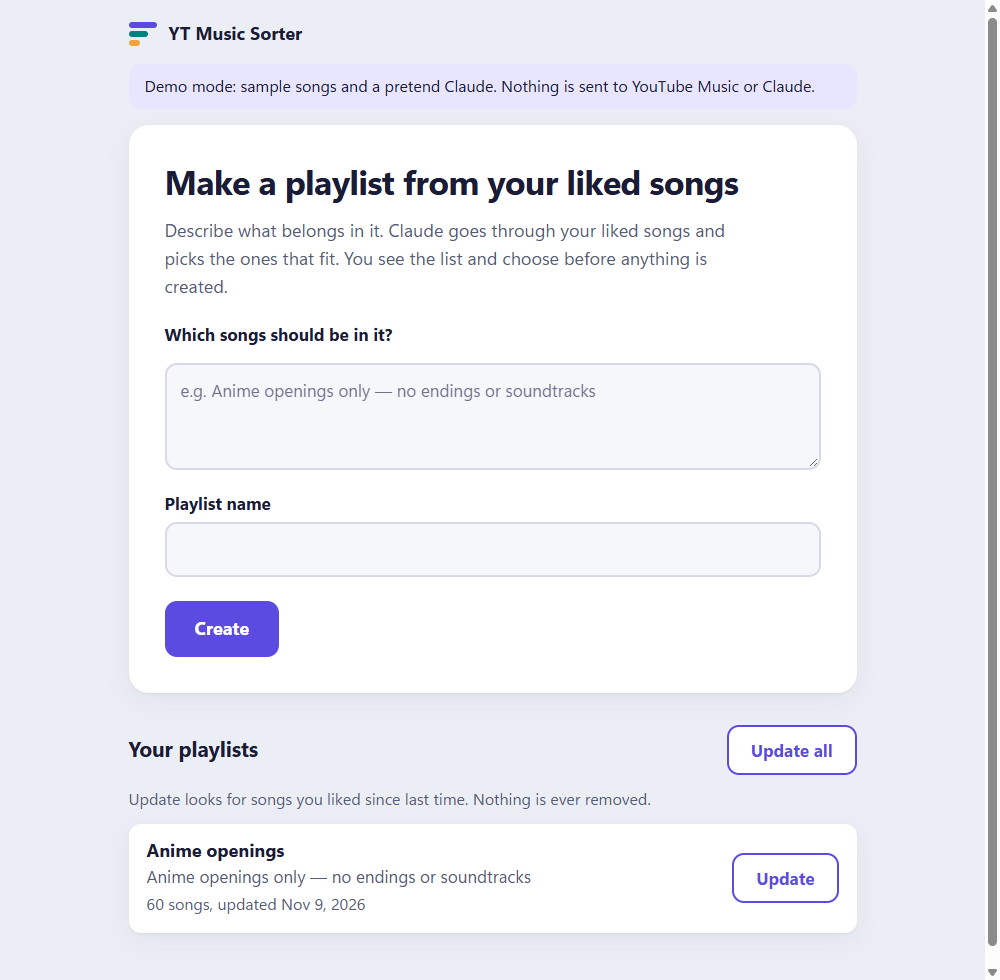
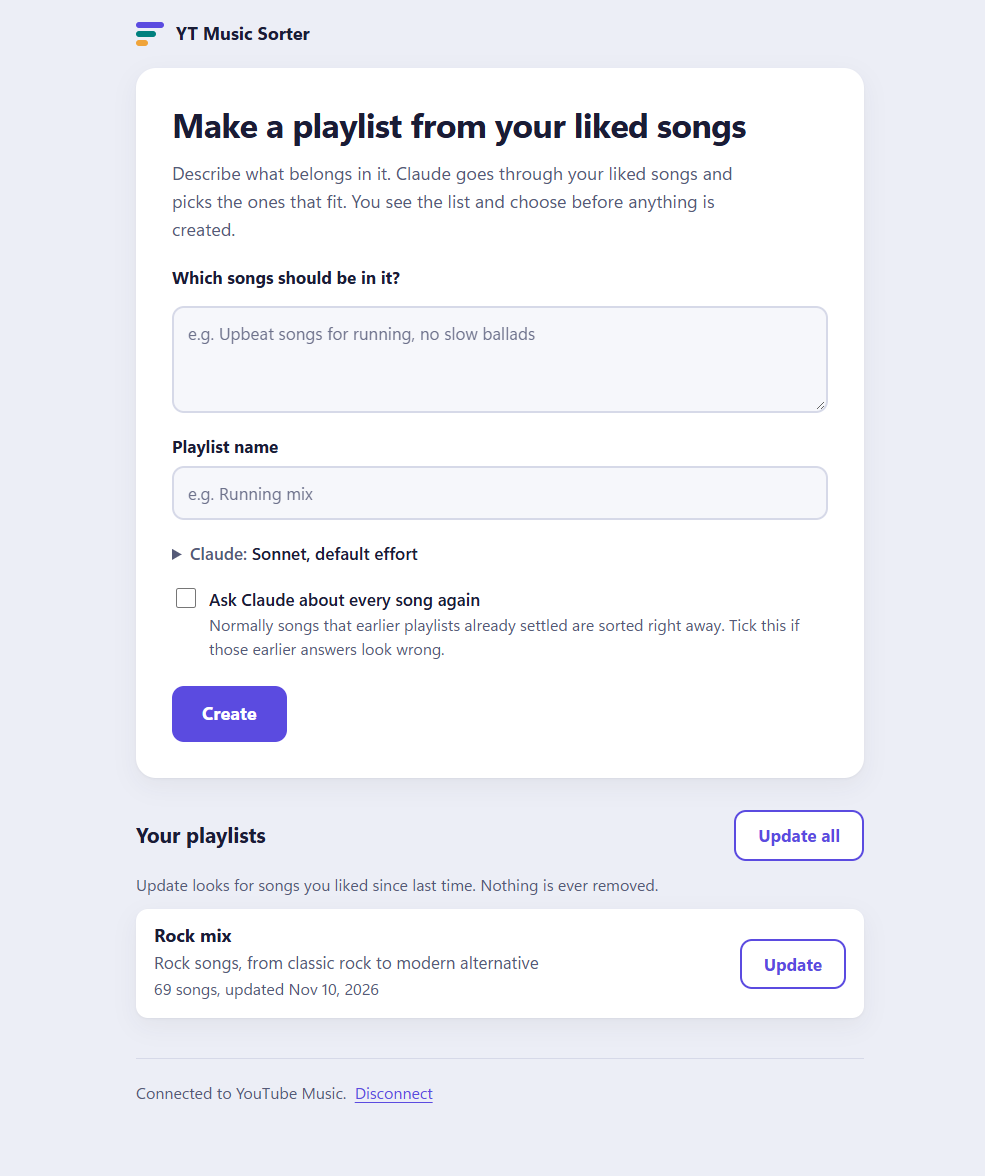
docs: neutral examples and a short README
- Placeholders and Claude's tag examples no longer lean on one person's
  taste (anime, K-pop, Ukrainian); the tie-in hint now covers films, TV,
  anime and games
- README rewritten as description, requirements and a short usage guide,
  with the Copy as cURL step and current features
- Fresh screenshots from demo mode showing the current main screen

diff --git a/ytsorter/static/index.html b/ytsorter/static/index.html
@@ -125,9 +125,9 @@
         <p class="lead">Describe what belongs in it. Claude goes through your liked songs and picks the ones that fit.
           You see the list and choose before anything is created.</p>
         <label for="desc">Which songs should be in it?</label>
-        <textarea id="desc" rows="3" maxlength="5000" placeholder="e.g. Anime openings only — no endings or soundtracks"></textarea>
+        <textarea id="desc" rows="3" maxlength="5000" placeholder="e.g. Upbeat songs for running, no slow ballads"></textarea>
         <label for="name">Playlist name</label>
-        <input id="name" type="text" maxlength="150" autocomplete="off">
+        <input id="name" type="text" maxlength="150" autocomplete="off" placeholder="e.g. Running mix">
 
         <details class="claude-choice" id="claude-choice" hidden>
           <summary>Claude: <span id="claude-choice-summary"></span></summary>

diff --git a/ytsorter/claude_cli.py b/ytsorter/claude_cli.py
@@ -30,7 +30,7 @@ _VERDICTS = ("include", "exclude", "unsure")
 SYSTEM_PROMPT = (
     "You sort a user's liked songs into a playlist they described. "
     "Judge only from the metadata given for each song and your own knowledge of the music. "
-    "Many Japanese, Korean and Chinese songs are anime, drama or game theme songs: use what you know "
+    "Many songs are theme songs or soundtracks for films, TV series, anime or games: use what you know "
     "about tie-ins, including romanized or translated titles. "
     "If you cannot tell whether a song fits, answer 'unsure' rather than guess. "
     "Keep each reason to 15 words or fewer. "
@@ -47,7 +47,7 @@ SCHEMA_JSON = (
 TOPIC_SYSTEM_PROMPT = (
     "You turn a playlist description into a single song tag, or none. "
     "A tag names what a song is, like a language, a genre, a country, or a kind of song "
-    "such as 'anime opening'. Answer with only the JSON object asked for."
+    "such as 'movie soundtrack'. Answer with only the JSON object asked for."
 )
 TOPIC_SCHEMA_JSON = '{"type":"object","properties":{"topic":{"type":["string","null"]}},"required":["topic"]}'
 
@@ -105,7 +105,7 @@ def _build_prompt(description: str, songs: list[Song], known_tags: list[str] = (
         "For each numbered song below, decide whether it belongs in that playlist "
         "(include, exclude or unsure) and give a short reason. "
         "Also give 1 to 6 short lowercase tags describing the song itself, whatever the playlist: "
-        "its language, genre, origin and kind (for example 'japanese', 'j-rock', 'anime opening', 'naruto'). "
+        "its language, genre, origin and kind (for example 'spanish', 'indie rock', 'movie soundtrack', 'christmas song'). "
         "Leave tags empty for a song you don't know.\n"
         f"{_known_tags_line(list(known_tags))}"
         f"Answer with only a JSON object of this exact shape: {_JSON_SHAPE}\n"
@@ -263,7 +263,7 @@ class ClaudeClassifier:
             f"Playlist description: {description}\n"
             f"{_known_tags_line(list(known_tags))}"
             "If the songs that fit this description are exactly the songs with one tag (for example "
-            "'k-pop', 'ukrainian', 'anime opening'), answer that tag, reusing a tag already in use when it "
+            "'jazz', 'spanish', 'christmas song'), answer that tag, reusing a tag already in use when it "
             "means the same. If the description combines conditions, leaves things out, or depends on mood, "
             "era, tempo or taste, answer null.\n"
             'Answer with only a JSON object of this exact shape: {"topic": "<tag>" or null}'

diff --git a/README.md b/README.md
@@ -1,197 +1,92 @@
 # YT Music Sorter
 
-Turn your YouTube Music liked songs into playlists, just by describing them.
+Turn your YouTube Music liked songs into playlists by describing them.
 
-Type something like *"Anime openings only, no endings or soundtracks"* or *"Songs sung in Ukrainian"*. Claude goes through your liked songs and picks the ones that fit. You get a list with a checkbox next to every song, tick or untick what you like, and only then is the playlist created on your YouTube Music account. Later, one button adds the songs you liked since then.
-
-The app runs on your own computer and opens in your web browser. Nothing is sent anywhere except to YouTube Music (your account) and to Claude (each song's title, artists, album and length, to decide which songs fit).
+Write what you want, for example *"Upbeat songs for running, no slow ballads"* or *"Instrumental music for studying"*. Claude goes through your liked songs and picks the ones that fit. You review the list, tick or untick songs, and only then is a private playlist created on your account. Later, **Update** adds the songs you liked since.
 
 ![The review screen: songs Claude picked, each with a checkbox](docs/images/review-screen.png)
 
-*The screenshots in this guide come from the built-in demo, which uses sample songs.*
+## Requirements
 
-## What you need
+- **Claude Code**, installed and logged in with your Claude account ([install guide](https://docs.claude.com/en/docs/claude-code/setup)). Check it by running `claude` in a terminal.
+- **A YouTube Music account** with liked songs.
+- **Windows, macOS or Linux** with an internet connection. Nothing else: the start script installs everything the app needs.
 
-- **Claude Code**, installed and logged in. You log in with your own Claude account, so there is no key to copy. The app will walk you through this if it is not set up yet.
-- **A YouTube Music account** with some liked songs.
-- A computer with an internet connection (Windows, macOS or Linux).
+## Usage
 
-You do not need to install Python or anything else yourself. The start script does it.
+### 1. Download and start
 
-## Download
+1. Download the app: click **Code → Download ZIP** on this page and unzip it, or run:
+   ```
+   git clone https://github.com/TymchukRoman/ytm-playlist-creator.git
+   ```
+2. Start it:
+   - **Windows:** double-click `start.bat`.
+   - **macOS / Linux:** run `./start.sh` in a terminal in the app folder.
 
-1. On the [project page](https://github.com/TymchukRoman/ytm-playlist-creator), click the green **Code** button, then **Download ZIP**.
-2. Unzip it (on Windows: right-click the file, then **Extract All**).
+The app opens in your browser. Keep the window that opened alongside it running while you use the app, and close it to stop the app. The first start takes a minute or two.
 
-If you use git, you can clone it instead:
+### 2. Connect YouTube Music (once)
 
-```
-git clone https://github.com/TymchukRoman/ytm-playlist-creator.git
-```
+The setup screen walks you through this:
 
-## Start
+1. Open [music.youtube.com](https://music.youtube.com) and sign in.
+2. Press `F12` (on a Mac, `Cmd`+`Option`+`I`) and open the **Network** tab.
+3. Type `browse` in the filter box. If nothing shows up, click **Home** on the YouTube Music page.
+4. Right-click the first request:
+   - **Chrome / Edge:** choose **Copy → Copy as cURL (bash)**.
+   - **Firefox:** click the request, switch on **Raw** next to **Request Headers**, and copy that text.
+5. Paste it into the app and press **Connect**.
 
-- **Windows:** double-click **`start.bat`** in the unzipped folder.
-- **macOS / Linux:** open a terminal in the folder and run `./start.sh`.
+What you copy acts like a password for your YouTube account. The app keeps it only on your computer.
 
-A window with some text opens, and after a moment the app appears in your web browser. **Keep that window open while you use the app. Close it to stop the app.**
+### 3. Make a playlist
 
-The first start takes a minute or two: it downloads a small helper called [uv](https://docs.astral.sh/uv/), which then sets up everything else. After that, starting is quick.
+1. Describe which songs belong in it and give it a name.
+2. Press **Create** and wait while Claude checks your songs. A progress bar shows how far along it is.
+3. Review the result:
+   - **Included** songs are ticked.
+   - **Unsure** and **Not included** songs are unticked.
+   - Change anything you like.
+4. Press **Create playlist**. Nothing changes on YouTube Music before this.
 
-## First-time setup
+![The main screen with a playlist and its Update button](docs/images/main-screen.png)
 
-The first time you open the app, it shows a short setup screen with two checks. Each one turns green when it is done. This is the same guide you see in the app, with the same steps.
+### 4. Keep it up to date
 
-### 1. Claude
+Press **Update** on a playlist, or **Update all**, to check songs you liked since last time. You review those the same way.
 
-1. Install Claude Code from the [official install page](https://docs.claude.com/en/docs/claude-code/setup).
-2. Open a terminal. On Windows, press Start, type **Terminal** and open it. On a Mac, open **Terminal** from Applications, then Utilities.
-3. Type `claude`, press Enter, and follow the steps to log in. You can close the terminal afterwards.
-4. Go back to the app and press **Check again**.
+## Good to know
 
-### 2. YouTube Music
+- **Nothing is removed.** The app only creates playlists and adds songs. It never removes songs, changes your likes, or touches playlists it didn't create.
+- **Claude only sees song info:** title, artists, album and length. For songs it doesn't know, it answers "Unsure".
+- **Model and effort:** under the playlist name, open **Claude: …** to choose the model and effort. A bigger model or more effort is more careful, but slower and uses more of your Claude limit.
+- **It learns as you go.** Each scan tags your songs. A later playlist on the same simple topic (for example *"Jazz only"*) reuses what earlier scans settled and asks Claude only about the rest. Tick **Ask Claude about every song again** to skip that.
+- **Pauses are safe.** If your Claude limit runs out or the YouTube sign-in expires, the run pauses and keeps its progress. Press **Resume** later.
+- **Your data:** the sign-in and the app's records are stored in your user data folder, not in the app folder, so updating the app keeps them:
+  - Windows: `%LOCALAPPDATA%\yt-music-sorter`
+  - macOS: `~/Library/Application Support/yt-music-sorter`
+  - Linux: `~/.local/share/yt-music-sorter`
 
-The app connects to your YouTube Music account by using a few details your browser sends when you use the site. You copy them once and paste them into the app. It takes about two minutes. The app shows these steps with a tab for your browser.
-
-**Chrome or Edge**
-
-1. Open [music.youtube.com](https://music.youtube.com) and make sure you are signed in.
-2. Press `F12` to open the developer tools. On a Mac, press `Cmd`+`Option`+`I`.
-3. Click the **Network** tab at the top of the developer tools.
-4. Type `browse` into the filter box. If the list stays empty, click **Home** or **Library** on the YouTube Music page.
-5. Right-click the first request in the list, then choose **Copy**, then **Copy as cURL (bash)**.
-6. Paste them into the box in the app (`Ctrl`+`V`, or `Cmd`+`V` on a Mac) and press **Connect**.
-
-**Firefox**
-
-1. Open [music.youtube.com](https://music.youtube.com) and make sure you are signed in.
-2. Press `F12` to open the developer tools. On a Mac, press `Cmd`+`Option`+`I`.
-3. Click the **Network** tab at the top of the developer tools.
-4. Type `browse` into the **Filter URLs** box. If the list stays empty, click **Home** or **Library** on the YouTube Music page.
-5. Click the first request in the list. On the right, find **Request Headers** and switch on the **Raw** toggle next to it.
-6. Select all of the text under Request Headers, copy it, paste it into the box in the app and press **Connect**.
-
-These details let the app act as you on YouTube Music, so treat them like a password. They are saved only on your computer (see [Your data](#your-data)) and are never sent anywhere except to YouTube Music.
-
-## Make your first playlist
-
-1. On the main screen, describe what belongs in the playlist, for example *"Anime openings only, no endings or soundtracks"*. Be as specific as you like.
-2. Give the playlist a name.
-3. Press **Create**. A progress bar shows the steps: fetching your liked songs, then asking Claude which songs fit. A big library can take a few minutes.
-4. On the **review screen**, look through the songs.
-   - **Included**: songs Claude thinks fit. They start ticked.
-   - **Unsure**: songs Claude could not judge from the title, artists, album and length. They start unticked, so tick the ones you want.
-   - **Not included**: songs Claude thinks do not fit. This section starts collapsed. Tick any you want anyway.
-5. Press the button at the bottom (for example **Create playlist with 60 songs**). Only now does anything happen on YouTube Music. If you change your mind, press **Cancel** and nothing is created.
-
-![The main screen with a finished playlist and its Update button](docs/images/main-screen.png)
-
-### Each playlist makes the next one faster
-
-Every scan also notes a few tags for each song, such as its language, genre and what it is (`k-pop`, `japanese`, `anime opening`). The app remembers which songs fit, or surely don't fit, each simple topic it has scanned for.
-
-When a new playlist's description is one simple topic, like *"K-pop songs only"* or *"Songs sung in Ukrainian"*, songs that earlier scans already settled for that topic are sorted right away. Claude is only asked about the rest. Those songs still appear on the review screen, with the reason *"An earlier scan tagged it …"* or *"An earlier scan found it isn't …"*, so you can still change them. Ticking one of them corrects what the app remembers.
-
-Descriptions that combine things or depend on taste, like *"Ukrainian rock from the 2000s"* or *"Chill songs for rainy evenings"*, always ask Claude about every song.
-
-If earlier answers look wrong, tick **Ask Claude about every song again** before pressing **Create**.
-
-### Choosing the Claude model and effort
-
-Under the playlist name, open **Claude: Sonnet, default effort** to pick the model and effort. Your choice is saved and used for every playlist from then on, including Update.
-
-- **Model:** Haiku is the fastest and uses the least of your Claude limit. Sonnet (the default) is a good balance. Opus and Fable judge subtle playlists more carefully but use more of your limit.
-- **Effort:** how long Claude thinks about each batch. **Default** lets Claude Code decide. Higher effort is slower and uses more of your limit.
-
-For a big library, start with Sonnet. Switch to Opus or raise the effort only if Claude puts too many songs in "Unsure" or gets them wrong.
-
-### Adding songs you liked later
-
-Each playlist the app made appears under **Your playlists** with an **Update** button. Update looks only at the songs you liked since the last time, asks Claude about those, and shows you the same review screen. **Update all** does this for every playlist, one after another. Songs you already decided on are never asked about again, and your choices on the review screen are final.
-
-## Safety
-
-- **Nothing is ever removed.** The app never takes songs out of a playlist and never changes your likes.
-- **Other playlists are untouched.** The app only changes playlists it created itself. It never edits or reads your other playlists.
-- **New playlists are private.** You can make one public yourself in YouTube Music later.
-- **You approve everything.** Nothing is written to YouTube Music until you press the button on the review screen.
-- **Claude only sees song info.** It judges from the title, artists, album and length (plus what it already knows). It does not browse the web or look up lyrics, so for obscure songs it may answer "unsure".
-- The app only listens on your own computer (`127.0.0.1`); other devices cannot reach it.
-
-## Your data
-
-Your YouTube Music sign-in and the list of playlists the app made are stored **outside** the app folder, in your user data folder:
-
-| System | Folder |
-| --- | --- |
-| Windows | `%LOCALAPPDATA%\yt-music-sorter` (paste this into the File Explorer address bar) |
-| macOS | `~/Library/Application Support/yt-music-sorter` |
-| Linux | `~/.local/share/yt-music-sorter` |
-
-Inside:
-
-- `youtube_auth.json` is your YouTube Music sign-in.
-- `playlists/` holds the app's records of the playlists it made (this is how Update knows what it has already checked).
-- `job.json` is the state of the current or last run, so it can continue after a pause.
-- `songs.json` is what earlier scans learned about each song (tags, and which topics it surely isn't).
-- `settings.json` holds your Claude model and effort choice.
-
-**To disconnect your YouTube Music account**, press **Disconnect** at the bottom of the main screen (or close the app and delete `youtube_auth.json`). The app shows the setup screen again. To sign out everywhere, you can also sign out of YouTube in your browser. To wipe everything the app remembers, delete the whole `yt-music-sorter` folder. Playlists already created on YouTube Music stay there.
-
-## Updating the app
-
-Download the ZIP again (or run `git pull`) and unzip it anywhere, even over the old folder. **Your data is kept**, because it lives in the data folder above and not in the app folder.
+  **Disconnect** at the bottom of the main screen removes your sign-in.
 
 ## Troubleshooting
 
-**Windows says "Windows protected your PC" when I double-click `start.bat`.**
-This is Windows SmartScreen, which warns about any downloaded script. Click **More info**, then **Run anyway**. You can open `start.bat` in Notepad first to see what it does: it installs uv if needed and starts the app.
+- **"Claude isn't logged in":** run `claude` in a terminal and log in, then press **Check again**.
+- **"Your Claude Code is too old":** run `claude update`.
+- **Windows warns about `start.bat`:** click **More info → Run anyway**.
+- **The browser didn't open:** copy the address printed in the app's window (like `http://127.0.0.1:8765/`) into your browser.
 
-**The window closed, or shows an error.**
-On Windows, the window stays open when something goes wrong, so you can read it. Check your internet connection and try again. If it keeps happening, take a screenshot of the window and ask for help in this project's [Issues on GitHub](https://github.com/TymchukRoman/ytm-playlist-creator/issues).
-
-**"YouTube Music sign-in expired".**
-The details you pasted do not last forever (they also stop working after you sign out of YouTube). Press **Reconnect YouTube Music** and repeat the YouTube Music steps above. The work done so far is kept, and you can press **Resume** afterwards.
-
-**"Claude took too long to answer" or "Claude's answer couldn't be read".**
-A one-off hiccup. The run pauses and keeps the finished work. Press **Resume** to try again.
-
-**"Your Claude Code is too old for this app".**
-Open a terminal and run `claude update`, then press **Check again**.
-
-**"Claude usage limit reached".**
-Your Claude subscription has a limit on how much you can use in a period. The run pauses and **keeps the finished work**. Come back later and press **Resume**. It continues where it stopped, even after closing the app.
-
-**"Claude isn't logged in" or "Claude CLI not found".**
-Follow the Claude steps in [First-time setup](#1-claude): install Claude Code, then open a terminal, run `claude`, and log in. Then press **Check again** (or **Resume**).
-
-**The app does not open in my browser.**
-Look at the window the start script opened. It prints a line like `YT Music Sorter is running at http://127.0.0.1:8765/`. Copy that address into your browser.
-
-**Port in use.**
-The app uses port 8765, and picks another free one automatically if that one is taken. The address it prints always shows the right one, so use the address from its window. If the app is already running, starting it again only opens the running one in your browser (and the new window closes again).
-
-**The page says "Can't reach the app".**
-The window that runs the app was closed. Start it again with `start.bat` or `./start.sh`.
-
-**The Update button says a playlist is missing.**
-You deleted that playlist on YouTube Music. The app does not re-create it silently. Press **Forget** to drop it from your list here (nothing on YouTube Music changes).
+Something else? [Open an issue](https://github.com/TymchukRoman/ytm-playlist-creator/issues).
 
 ## For developers
 
-The app is a small Python server (FastAPI) with a plain HTML/JS page, no build step. Python dependencies are managed with [uv](https://docs.astral.sh/uv/).
+Python (FastAPI) with a plain HTML/JS page and no build step, managed with [uv](https://docs.astral.sh/uv/).
 
 ```
-uv run pytest                  # run the tests
-uv run ytsorter                # start the app (opens your browser)
-YTSORTER_DEMO=1 uv run ytsorter   # demo mode: sample songs and a pretend Claude, no accounts needed
+uv run pytest                     # tests
+uv run ytsorter                   # start the app
+YTSORTER_DEMO=1 uv run ytsorter   # demo: sample songs and a pretend Claude, no accounts needed
 ```
 
-On Windows (PowerShell), set the variable first: `$env:YTSORTER_DEMO = "1"`. Demo data is kept apart in a `demo` folder inside the data folder and is reset on every start.
-
-Other environment variables:
-
-- `YTSORTER_DATA_DIR`: use a different data folder.
-- `YTSORTER_NO_BROWSER=1`: don't open the browser on start.
-
-The screenshots in `docs/images/` were captured from demo mode.
+`YTSORTER_DATA_DIR` sets a different data folder, and `YTSORTER_NO_BROWSER=1` stops the app from opening a browser. The screenshots above come from demo mode.
